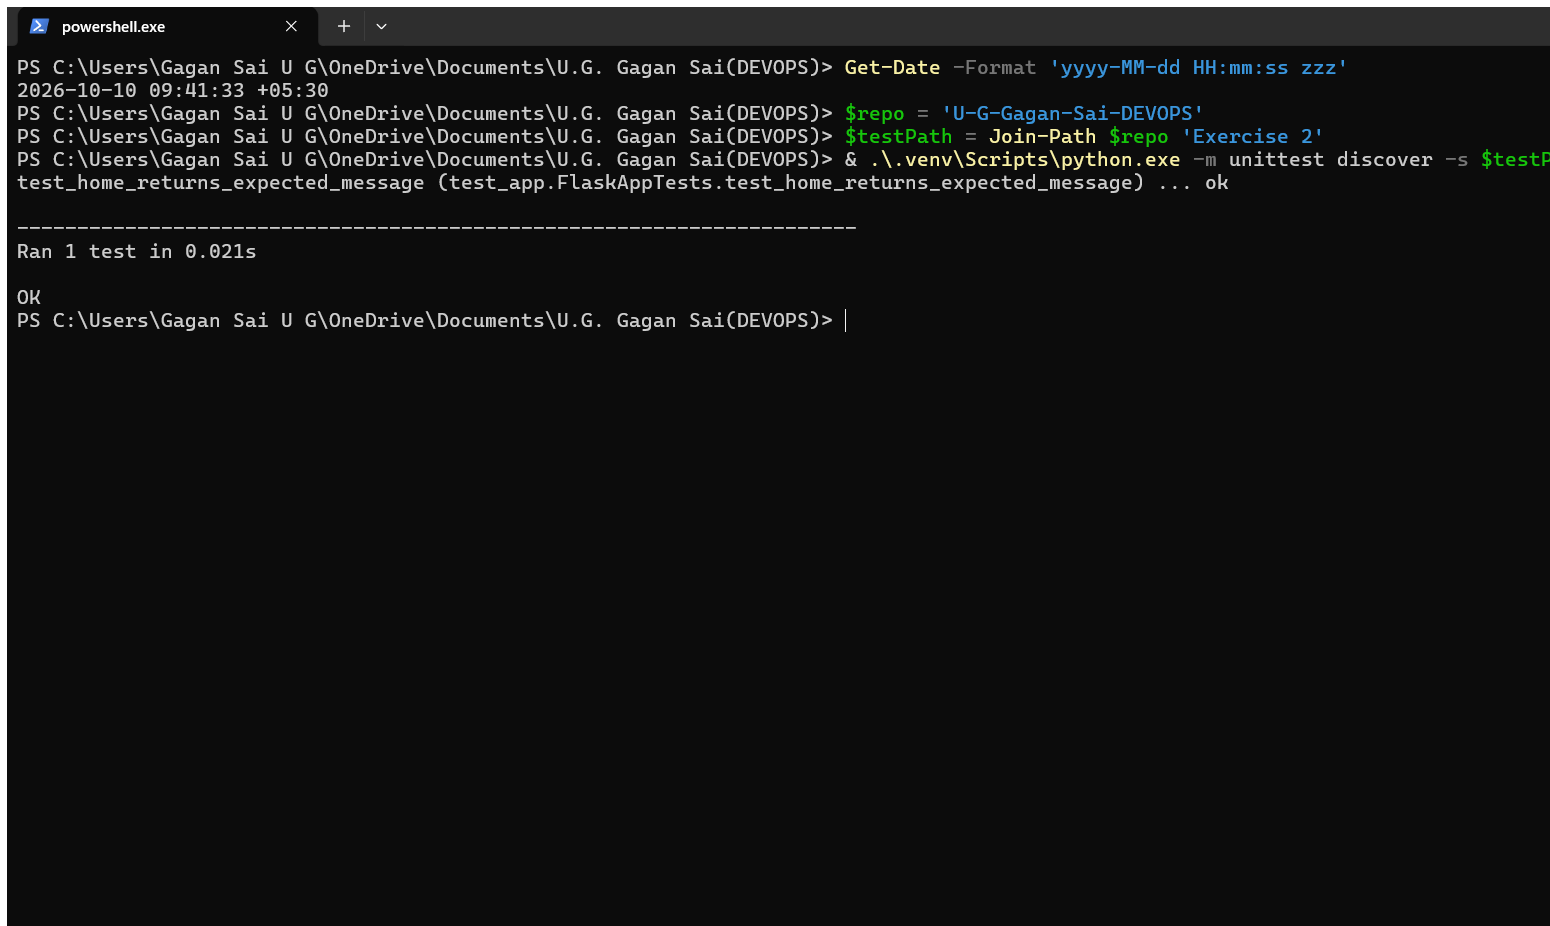
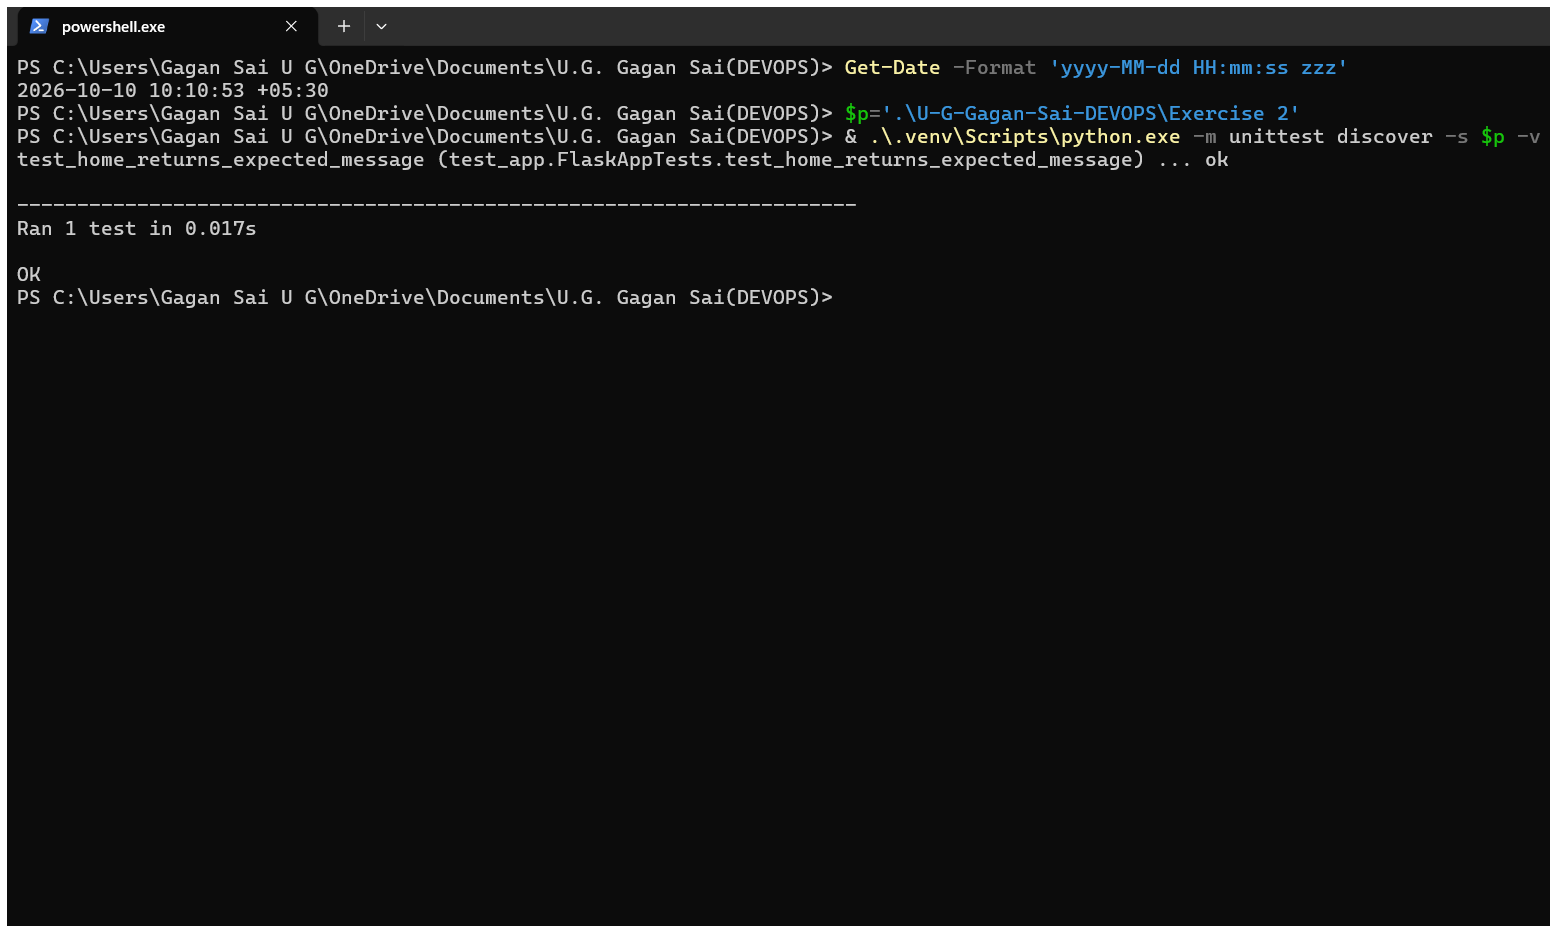
Document verified exercise outputs
Separate local Flask evidence from Kubernetes results that could not be run on this host.

Changed region(s): [[0.0, 0.0907, 1.0, 0.3629], [0.0929, 0.0907, 0.1548, 0.121]]

diff --git a/README.md b/README.md
@@ -1,14 +1,14 @@
 # DevOps Exercises
 
-This repository contains the first three DevOps lab exercises, each in its own numbered folder.
+This repository contains the first three DevOps lab exercises, each in its own numbered folder. The Kubernetes manifests and commands follow the corresponding topics in [SunagP/DevOps-Lab](https://github.com/SunagP/DevOps-Lab/tree/main/Exercises).
 
 ## Exercises
 
 | Folder | Topic | Evidence |
 | --- | --- | --- |
-| [Exercise 1](./Exercise%201/) | Kubernetes Nginx pod and NodePort service | `kubectl` client check; cluster deployment unavailable on the capture machine |
-| [Exercise 2](./Exercise%202/) | Flask application for Minikube | Local Flask endpoint returned HTTP 200; Kubernetes deployment not verified |
-| [Exercise 3](./Exercise%203/) | Flask flash-sale API and Kubernetes ReplicaSet | Local API endpoints returned HTTP 200; replicas and scaling not verified |
+| [Exercise 1](./Exercise%201/) | Kubernetes Nginx pod and NodePort service | [kubectl client check](./Exercise%201/screenshots/kubectl-client-version.png); [cluster context unavailable](./Exercise%201/screenshots/cluster-unavailable.png) |
+| [Exercise 2](./Exercise%202/) | Flask application for Minikube | [live local HTTP check](./Exercise%202/screenshots/flask-live-http.png); Kubernetes deployment not verified |
+| [Exercise 3](./Exercise%203/) | Flask flash-sale API and Kubernetes ReplicaSet | [live local API requests](./Exercise%203/screenshots/flashsale-live-http.png); replicas and scaling not verified |
 
 ## Running the local Flask checks
 
@@ -30,4 +30,4 @@ To deploy the manifests, first start and configure a working Minikube cluster an
 
 ## Screenshot evidence
 
-Each exercise folder contains genuine PowerShell terminal captures of commands actually run on the capture machine. The timestamp in each capture uses the machine's current time and timezone. A local endpoint check or Kubernetes client-version check is not presented as proof of a cluster deployment.
+Each exercise folder contains genuine PowerShell terminal captures of commands actually run on the capture machine. The timestamp in each capture uses the machine's current time and timezone. The Flask screenshots show local app/tests, not a Docker or Minikube deployment. This Windows host currently has no working Kubernetes context or Docker runtime; the installed Minikube binary cannot run on this OS, firmware virtualization is disabled, and administrator privileges are unavailable. Therefore, successful pod, Deployment, NodePort, or ReplicaSet output cannot truthfully be produced here yet. Follow each exercise README to run those steps after configuring a supported local cluster.

diff --git a/Exercise 1/README.md b/Exercise 1/README.md
@@ -24,4 +24,6 @@ minikube service hello-k8s
 
 Expected result: `kubectl get pods` shows `hello-k8s` as `Running`, and the service URL displays the Nginx welcome page.
 
-Actual result in this environment: `kubectl` client v1.37.1 is available, but a usable Kubernetes cluster and credentials are not available, so the pod and service deployment is `NOT VERIFIED`. The current client-version check is captured in [screenshots/kubectl-client-version.png](./screenshots/kubectl-client-version.png); it verifies the client only, not a running pod.
+Actual result in this environment: `kubectl` client v1.37.1 is available, but the current Kubernetes context is not set, so the pod and service deployment is `NOT VERIFIED`. See [screenshots/kubectl-client-version.png](./screenshots/kubectl-client-version.png) for the client version and [screenshots/cluster-unavailable.png](./screenshots/cluster-unavailable.png) for the current-context check. Neither capture shows a running pod.
+
+The manual's full success output requires a working Minikube cluster. Minikube cannot run on this host: its installed executable is not valid for Windows, Docker is unavailable, firmware virtualization is disabled, and this session has no administrator privileges to enable or install the required runtime. Do not treat the client-version check as a deployment result.

diff --git a/Exercise 3/README.md b/Exercise 3/README.md
@@ -34,4 +34,4 @@ kubectl get pods
 
 Expected result: `flashsale-rs` initially has 3 pods, scales to 5 pods, and returns to 5 pods after one pod is deleted.
 
-Actual result in this environment: repeatable local tests for `/`, `/health`, and `/buy` pass with HTTP 200. Run `python -m unittest discover -s "Exercise 3" -v` from the repository root. The real terminal run is captured in [screenshots/flashsale-local-tests.png](./screenshots/flashsale-local-tests.png). Kubernetes replicas, scaling, and pod replacement remain `NOT VERIFIED` because no cluster or Docker runtime is available.
+Actual result in this environment: the Flask app was started locally; live requests to `/`, `/health`, and `/buy?user=student` returned the expected API responses. The PowerShell output is captured in [screenshots/flashsale-live-http.png](./screenshots/flashsale-live-http.png). Repeatable local tests for all three routes also pass; run `python -m unittest discover -s "Exercise 3" -v` from the repository root and see [screenshots/flashsale-local-tests.png](./screenshots/flashsale-local-tests.png). These checks use one local Flask process, not Kubernetes. Docker and a working cluster are unavailable, so image build, initial three replicas, scaling to five, service traffic, and pod replacement remain `NOT VERIFIED`.

diff --git a/Exercise 2/README.md b/Exercise 2/README.md
@@ -34,4 +34,4 @@ minikube service flask-app-service --url
 
 Expected result: the URL from `minikube service flask-app-service --url` returns `Hello from Flask on Kubernetes!`.
 
-Actual result in this environment: the local Flask endpoint test passes with HTTP 200. Run the repeatable test with `python -m unittest discover -s "Exercise 2" -v` from the repository root. The real terminal run is captured in [screenshots/flask-local-test.png](./screenshots/flask-local-test.png). Docker and a working Minikube cluster are unavailable, so the container build and Kubernetes deployment remain `NOT VERIFIED`.
+Actual result in this environment: the Flask app was started locally and returned the expected response with HTTP 200. The live request is captured in [screenshots/flask-live-http.png](./screenshots/flask-live-http.png). The repeatable local test also passes with `python -m unittest discover -s "Exercise 2" -v` from the repository root; see [screenshots/flask-local-test.png](./screenshots/flask-local-test.png). These are local-app checks only. Docker and a working Minikube cluster are unavailable, so the container build, Kubernetes rollout, Service, and Minikube URL remain `NOT VERIFIED`.
